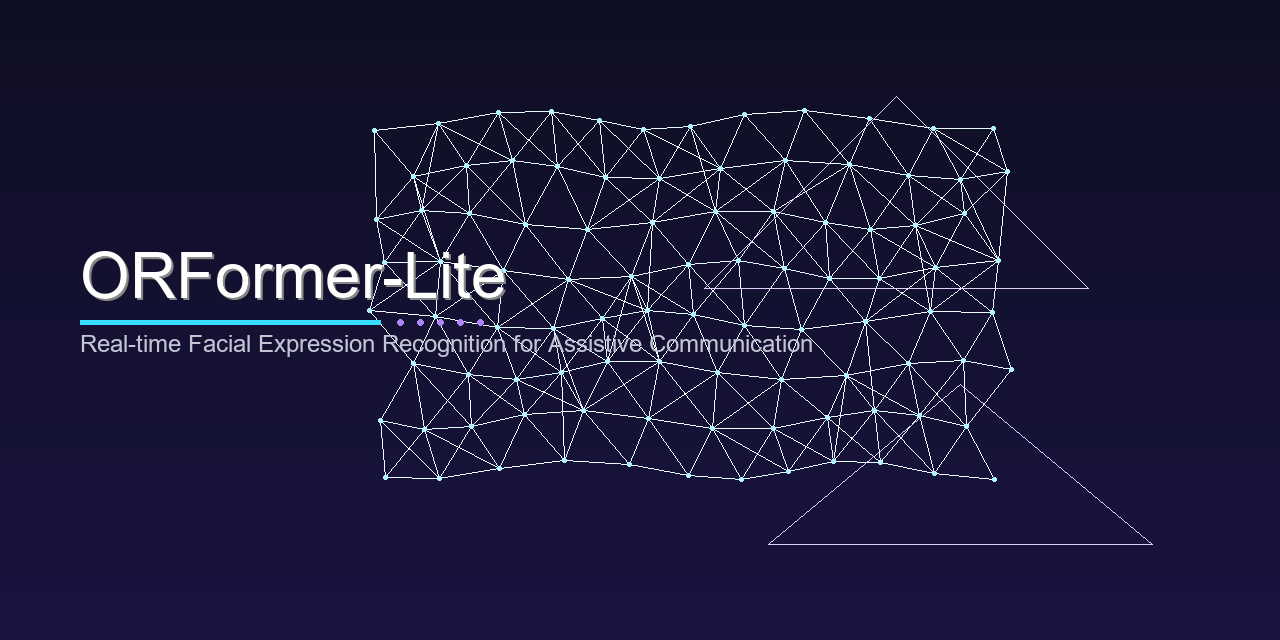
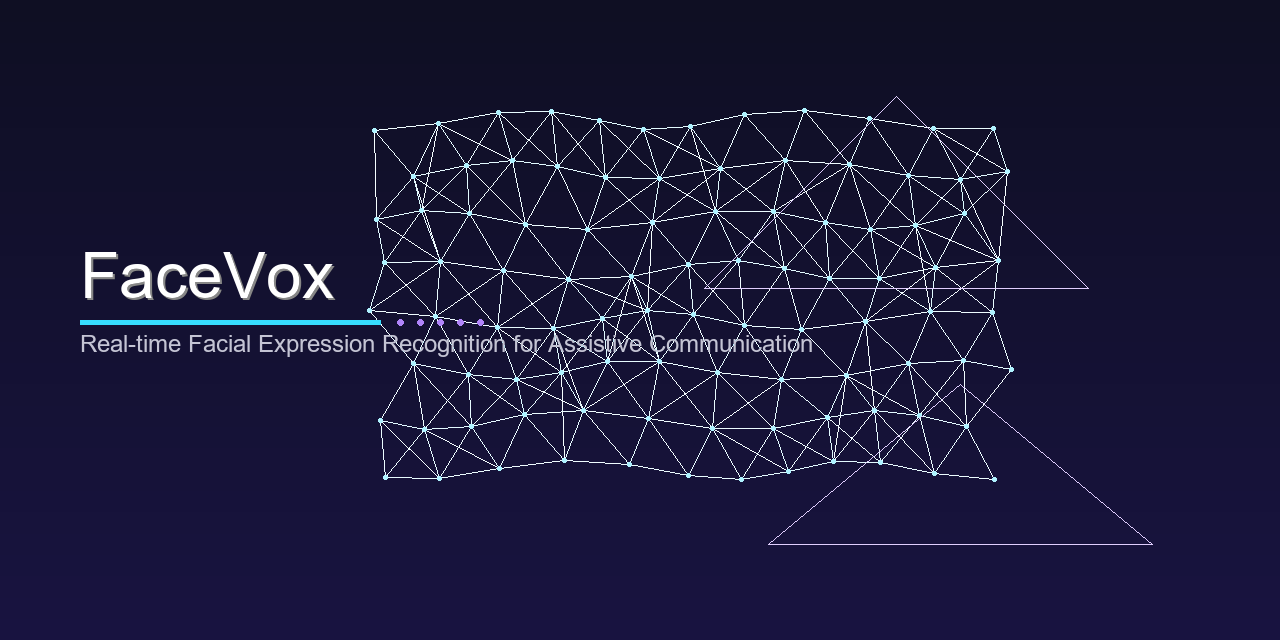
update branding and assets

Changed region(s): [[0.0625, 0.375, 0.4062, 0.4688]]

diff --git a/src/demo/webcam_demo.py b/src/demo/webcam_demo.py
@@ -49,7 +49,7 @@ class WebcamDemo:
         self,
         model_path: Optional[str] = None,
         camera_id: int = 0,
-        window_name: str = "ORFormer-Lite: Facial Expression Recognition",
+        window_name: str = "FaceVox: Facial Expression Recognition",
         show_landmarks: bool = True,
         show_expression: bool = True,
         show_intent: bool = True,
@@ -269,7 +269,7 @@ class WebcamDemo:
 
 def main():
     import argparse
-    parser = argparse.ArgumentParser(description="ORFormer-Lite Webcam Demo")
+    parser = argparse.ArgumentParser(description="FaceVox Webcam Demo")
     parser.add_argument("--model", type=str, default=None, help="Path to trained model")
     parser.add_argument("--camera", type=int, default=0, help="Camera ID")
     parser.add_argument("--no-landmarks", action="store_true", help="Hide landmarks")

diff --git a/src/demo/server.py b/src/demo/server.py
@@ -21,7 +21,7 @@ from src.models.expression_recognition import (
 from src.models.occlusion import RobustOcclusionHandler
 
 app = FastAPI(
-    title="ORFormer-Lite API",
+    title="FaceVox API",
     description="Real-time facial expression recognition for assistive communication",
     version="1.0.0",
 )
@@ -82,7 +82,7 @@ async def shutdown():
 
 @app.get("/")
 async def root():
-    return {"message": "ORFormer-Lite API", "docs": "/docs"}
+    return {"message": "FaceVox API", "docs": "/docs"}
 
 @app.get("/health")
 async def health():

diff --git a/main.py b/main.py
@@ -1,5 +1,5 @@
 """
-ORFormer-Lite: Real-Time Facial Expression Recognition for Assistive Communication
+FaceVox: Real-Time Facial Expression Recognition for Assistive Communication
 
 Main entry point for the application.
 """
@@ -10,7 +10,7 @@ import os
 
 def main():
     parser = argparse.ArgumentParser(
-        description="ORFormer-Lite: Facial Expression Recognition",
+        description="FaceVox: Facial Expression Recognition",
         formatter_class=argparse.RawDescriptionHelpFormatter,
         epilog="""
 Examples:

diff --git a/generate_assets.py b/generate_assets.py
@@ -129,7 +129,7 @@ def generate_banner(width=1280, height=640):
             font_title = ImageFont.load_default()
             font_sub = ImageFont.load_default()
 
-    title = "ORFormer-Lite"
+    title = "FaceVox"
     tagline = "Real-time Facial Expression Recognition for Assistive Communication"
 
     # title with shadow

diff --git a/src/demo/gui.py b/src/demo/gui.py
@@ -317,7 +317,7 @@ class MainWindow(QMainWindow):
 
     def __init__(self):
         super().__init__()
-        self.setWindowTitle("ORFormer-Lite: Facial Expression Recognition")
+        self.setWindowTitle("FaceVox: Facial Expression Recognition")
         self.setMinimumSize(1200, 700)
 
         central = QWidget()

diff --git a/src/__init__.py b/src/__init__.py
@@ -1,1 +1,1 @@
-# ORFormer-Lite: Real-Time Facial Expression Recognition for Assistive Communication
+# FaceVox: Real-Time Facial Expression Recognition for Assistive Communication

diff --git a/README.md b/README.md
@@ -1,8 +1,8 @@
 <p align="center">
-  <img src="assets/banner.png" alt="ORFormer-Lite Banner" width="100%">
+  <img src="assets/banner.png" alt="FaceVox Banner" width="100%">
 </p>
 
-# ORFormer-Lite
+# FaceVox
 
 Real-time facial expression recognition for assistive communication. Detects expressions via 478-point face landmarks (MediaPipe) and maps them to communication intents (YES/NO/HELP/PAIN) for users with motor disabilities.
 
